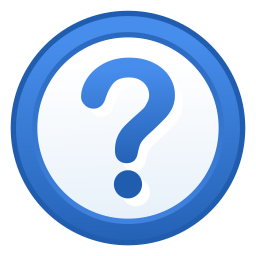
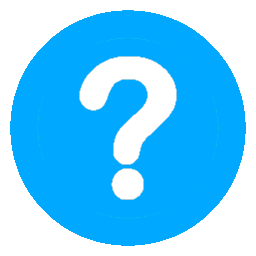
branding changes

diff --git a/js/ra.js b/js/ra.js
@@ -331,14 +331,14 @@ ra.date = (function () {
         var options = {month: 'long'};
         return value.toLocaleDateString("en-UK", options);
     };
+    date.monthShort = function (datetime) {
+        var value = date._setDateTime(datetime);
+        var options = {month: 'short'};
+        return value.toLocaleDateString("en-UK", options);
+    };
     date.dowShortddmm = function (datetime) {
         return date.dowShortdd(datetime) + ", " + date.month(datetime);
     };
-//    date.dowShortddyyyy = function (datetime) {
-//        var value = date._setDateTime(datetime);
-//        var options = {year: 'numeric', day: 'numeric', weekday: 'short'};
-//        return value.toLocaleDateString("en-UK", options);
-//    };
     date.dowShortddmmyyyy = function (datetime) {
         var value = date._setDateTime(datetime);
         var options = {year: 'numeric', month: 'short', day: 'numeric', weekday: 'short'};
@@ -367,6 +367,10 @@ ra.date = (function () {
         var options = {year: 'numeric'};
         return value.toLocaleDateString("en-UK", options);
     };
+    date.YY = function (datetime) {
+        var value = ra.date.YYYY(datetime);
+        return value.substr(2, 2);
+    };
     date.YYYYMMDD = function (datetime) {
         var value = date._setDateTime(datetime);
         return value.getFullYear() + "-" + date.MM(value) + "-" + date.DD(value);
@@ -382,10 +386,6 @@ ra.date = (function () {
     date.DD = function (datetime) {
         var value = date._setDateTime(datetime);
         return value.getDate().toString().padStart(2, '0');
-    };
-    date.Month = function (datetime) {
-        var value = date._setDateTime(datetime);
-        return value.toLocaleString('default', {month: 'long'});
     };
     date.nth = function (datetime) {
         var value = date._setDateTime(datetime);
@@ -1092,7 +1092,7 @@ ra.help = class {
             }
             _this.open = !_this.open;
             if (_this.open) {
-                _this.helpTag.innerHTML = "<span>Help</span><div class='help-border'></div>" + _this.helpFunction();
+                _this.helpTag.innerHTML = "<span>Help<span class='close'>x</span></span><div class='help-border'></div>" + _this.helpFunction();
                 _this.helpTag.style.display = 'block';
                 _this.helpTag.raHelpTag = _this;
 

diff --git a/jsonwalks/css/ramblerslibrary.css b/jsonwalks/css/ramblerslibrary.css
@@ -7,6 +7,7 @@
     --rosyCheeks:#F6B09D;
     --sunrise:#F9B104;
     --cloudy:#FFFFFF;
+    --skyBlue:#00A9FF;
     --gradeEA:#ADADAD;
     --gradeE:#9BC8AB;
     --gradeL:#F6B09D;
@@ -412,15 +413,17 @@ div.ra.help.helpblock{
     background-color:#EEEEEE;
 }
 div.ra.help.helpblock span{
-    color:blue;
-    
+    color:var(--skyBlue);
+
 }
 div.ra.help.helpblock div.help-border{
     display: block;
     width: 95%;
     height: 3px;
-    background: blue;
-    
+    background: var(--skyBlue);
+}
+div.ra.help.helpblock span.close{
+    color:black;
 }
 div#ra-help-helptag{
     z-index: 99999;
@@ -545,7 +548,7 @@ span.ra-details {
     width:100%;
     top:-5px;
 }
-.right {
+.floatright {
     float:right;
 }
 img.ra-detailsimg {

diff --git a/leaflet/ra-map-tools.js b/leaflet/ra-map-tools.js
@@ -93,7 +93,7 @@ L.Control.RA_Map_Tools = L.Control.extend({
 
             if (_this._helpPage !== '') {
                 var help = document.createElement('a');
-                help.setAttribute('class', 'link-button button-p1815');
+                help.setAttribute('class', 'link-button mintCake');
                 help.setAttribute('href', _this._helpPage);
                 help.setAttribute('target', '_blank');
                 help.style.cssFloat = "right";
